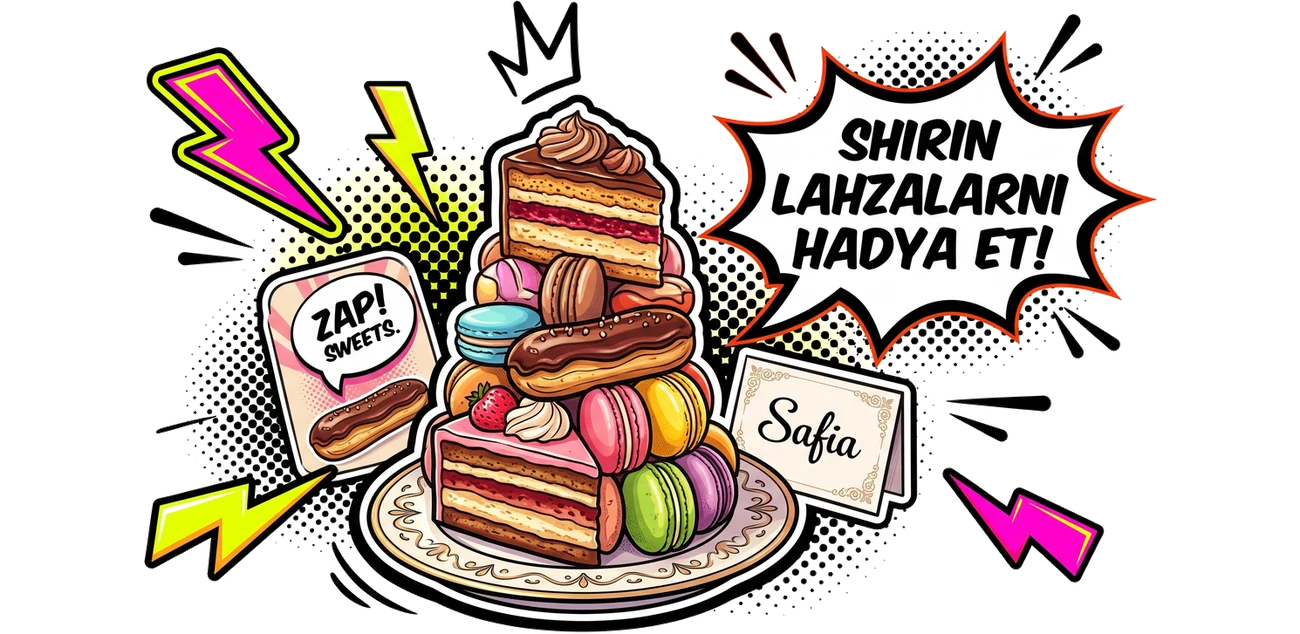
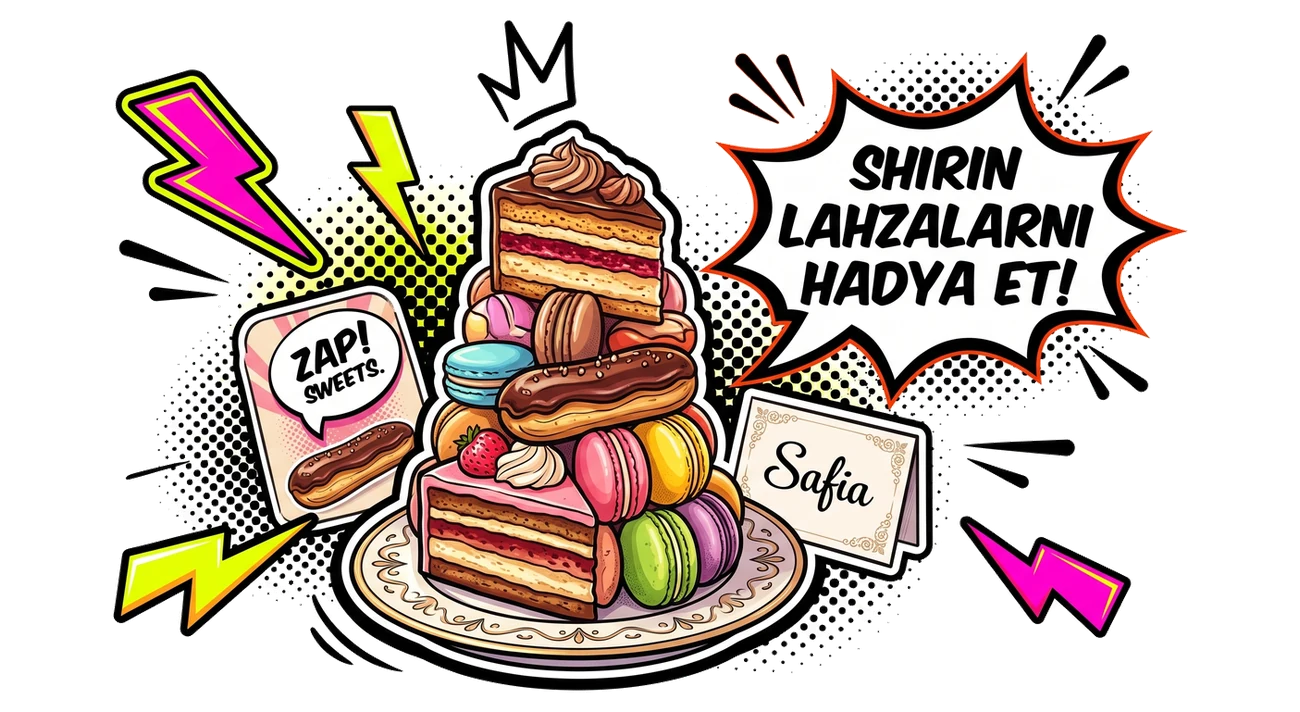
Все пять баннеров карусели в одном кадре 1.83:1
Feedup перерисован в пропорциях остальных — прежний был 2.4:1 и при contain
выходил вдвое ниже соседей. Все пять пропущены через единую обработку, как
промо-герой: заливка фона от краёв, обрезка по рисунку, поле 3%, добивка
прозрачными полями до общей пропорции. Теперь contain рисует их одной высотой
без обрезки; кадр карусели 204 pt.

diff --git a/apps/mobile/src/components/PromoCarousel.tsx b/apps/mobile/src/components/PromoCarousel.tsx
@@ -160,8 +160,10 @@ const styles = StyleSheet.create({
   },
   heroTerms: { fontFamily: font.semibold, fontSize: 14.5, color: 'rgba(255,255,255,0.65)', textAlign: 'center' },
   venueImgWrap: { paddingHorizontal: 8, paddingTop: 4 },
-  // под самый высокий из баннеров (182 pt) плюс немного воздуха
-  venueImg: { height: 188, width: '100%' },
+  // Все пять баннеров приведены к одной пропорции 1.83:1 (feedup перерисован
+  // в кадре остальных, поля добиты прозрачным) — при contain они рисуются
+  // одной высотой и без обрезки. 204 ≈ (390−16)/1.83.
+  venueImg: { height: 204, width: '100%' },
   venueText: { alignItems: 'center', gap: 4, paddingHorizontal: 12, marginTop: 12 },
   venueTitle: { fontFamily: font.extrabold, fontSize: 20, letterSpacing: -0.2, color: '#FFFFFF', textAlign: 'center' },
   venueTerms: { fontFamily: font.semibold, fontSize: 13, color: 'rgba(255,255,255,0.6)', textAlign: 'center' },
